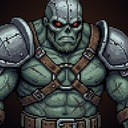
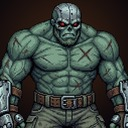
v66: Grog rebuilt on Kaito's body with his colors and outfit

diff --git a/game.js b/game.js
@@ -4,7 +4,7 @@
    ========================================================= */
 'use strict';
 (() => {
-const VERSION = 'v64';
+const VERSION = 'v66';
 
 let W = 384; const H = 216, GROUND = 190, GRAV = 0.34;
 let CX = 192; // centre horizontal
@@ -354,49 +354,37 @@ const HEAD_VESPER = [
   "..bBBBnnb.",
   "...eBBBBe.",
 ];
-const HEAD_GROG = [
-  "..aaaaa...",
-  ".aHLLHHa..",
-  "aHLHhHHHa.",
-  "aHHhHHLHHa",
-  "aHhHHHHHHa",
-  "ahHHHaaHaa",
-  "ahhHHkcakc",
-  "eShHSsslS.",
-  "eSbBSbkkb.",
-  ".ebBBBBBb.",
-  "..bbBBbb..",
+const HEAD_GROG = [   // tête de Kaito : crâne chauve blindé, yeux rouges, barbe
+  "..aaaaaa..",
+  ".aHHLLHHa.",
+  "aHHHLLHHHa",
+  "aHHHHHLHHa",
+  "ahHHHHHHHh",
+  "ahhSkcskc.",
+  "ahhSsssss.",
+  "ahSssssss.",
+  ".aSbBbbBs.",
+  "..SbBmmBs.",
+  "..ebBBBbe.",
 ];
-const GROG_TORSO = [
-  "oooooooooooooooooooooo",
-  "odmrlllllmdmllllllrlmo",
-  "odmrrllllmdmlllllrrlmo",
-  "odmmlrllgGGgglllrlmmmo",
-  "oddmxrrmGmdmgmmrrmmmmo",
-  ".oddmxrrgmdmgmrrmmmmo.",
-  ".odddddrgdddgrrdddddo.",
-  ".oddddddgggggrdddddmo.",
-  "..oldmdllrrrrldmmmmo..",
-  "..oddmdmmmrrmmdmmxmo..",
-  "..oldmdddrrrrddmmxmo..",
-  "...odddlrrdlrldmmmo...",
-  "...odddrrmdmmrrmmmo...",
-  "...odddrddddddrmmmo...",
-  "....orrllldllldrro....",
-  "....ordmmmdmmmdmro....",
-];
-const HEAD_GROG_BACK = [
-  "..aaaaa...",
-  ".aHLLHHa..",
-  "aHHLhHHHa.",
-  "aHhHHHLHHa",
-  "aHHHhHHHHa",
-  "ahHHHHHHha",
-  "ahhHHHHhSs",
-  "eShhhhhSss",
-  "eSsssssSs.",
-  ".eSsssSSs.",
-  "..eSSSSe..",
+
+const GROG_TORSO = [   // d'après le pixel art de Nizar
+  "....oooooo..oooooo....",
+  "..oommmmmdoodmmmmmoo..",
+  ".ommmmmmmmddmmmmmmmmo.",
+  "ommxmmmmmmddmmmmmmxmmo",
+  "omxmmmmmmmmdmmmmmmmxmo",
+  "ommmmmmmmmmdmmmmmmmmmo",
+  "omdmmmmxmmmdmmmxmxmmdo",
+  "omdmmmmmxmmdmmmmxmmmdo",
+  ".odddddddddddddddddddo",
+  ".omdmmmmmmmdmmmmmmdmo.",
+  "..odmmddddmdddddmmdo..",
+  "..odmmmmmmdmmmmxmmdo..",
+  "..odmmddddddddmmmmdo..",
+  "...odmmmmmdmmmxmmdo...",
+  "...odmmmmmdmmmmmmdo...",
+  "....oooooooooooooo....",
 ];
 // Têtes vues de dos 3/4 (nuque, oreille et bord de la joue à l'avant)
 const HEAD_KAITO_BACK = [
@@ -456,19 +444,18 @@ const DEFS = [
     glove: ['#05050a', '#14141c', '#26263a', '#3af0ff'],
     shoe:  ['#08080e', '#22222e', '#3af0ff', '#1ab8e0'],               // bottes noires, semelle cyan
     fb: ['#ffffff', '#c8f8ff', '#3af0ff', '#c83aff'] },
-  { name: 'GROG', style: 'tshirt', head: HEAD_GROG, headBack: HEAD_GROG_BACK, bare: true, bulk: true, size: 1.08, upper: 1.22, armor: true, harness: true, heavyBelt: true, cargo: true, shoes: true, kit: 'grog',
+  { name: 'GROG', style: 'tshirt', head: HEAD_GROG, headBack: HEAD_SORA_BACK, skinTop: true, bracer: true, scars: true, heavyBelt: true, shoes: true, kit: 'grog',
     speed: .72, tough: .82, power: 1.12,
-    skin:  ['#101a14', '#2c4637', '#5c8a6c', '#b4dcbc'],               // peau de mutant vert-de-gris
+    skin:  ['#1a2a22', '#3a5848', '#5a8070', '#86a898'],               // peau de mutant vert-de-gris
     eye:   '#ff2a1a',
-    hair:  { a: '#1e2228', h: '#4e5662', H: '#7c8696', L: '#c4ccd8' },   // crâne blindé de titane
-    top:   ['#101a14', '#2c4637', '#5c8a6c', '#b4dcbc'],               // torse nu musclé
-    legs:  ['#181c12', '#323a28', '#4c5640', '#66725a'],               // pantalon cargo kaki
-    belt:  ['#1a0e06', '#3a2412', '#5a3a1e', '#7a5434'],               // ceinture de cuir rivetée
-    strap: ['#2a1608', '#5a3418', '#7a4a26'],                          // harnais de cuir
-    bandP: ['#0c120e', '#16201a', '#243028', '#3a4a40'],               // barbe drue
-    armorP:['#1e2228', '#4e5662', '#7c8696', '#c4ccd8'],               // blindage titane
-    glove: ['#1e2228', '#4e5662', '#7c8696', '#c4ccd8'],
-    shoe:  ['#101216', '#3a3e46', '#5a606a', '#2a2e34'],               // rangers grises
+    hair:  { a: '#2a2e36', h: '#4e5662', H: '#7c8696', L: '#c4ccd8' },   // crâne blindé de titane
+    bandP: ['#0e1612', '#1a2620', '#2a3a30', '#3a4a40'],               // barbe
+    top:   ['#1a2a22', '#3a5848', '#5a8070', '#86a898'],               // torse nu
+    legs:  ['#1a1e14', '#343c2a', '#4c5640', '#66725a'],               // pantalon cargo kaki
+    belt:  ['#1a0e06', '#3a2412', '#5a3a1e', '#7a5434'],               // ceinture de cuir
+    armorP:['#2a2e36', '#5a6270', '#8c96a6', '#d4dce8'],               // brassards d'acier
+    glove: ['#2a2e36', '#5a6270', '#8c96a6', '#d4dce8'],               // gantelets
+    shoe:  ['#14161a', '#3a3e46', '#5a606a', '#2a2e34'],               // rangers grises
     fb: ['#ffffff', '#ffe0a0', '#ff8a2a', '#8a3a10'] },
 ];
 
@@ -717,18 +704,11 @@ function drawFighter(f, x = f.x, y = f.y) {
       const bc = mix(s0, e, .55), bn = add(bc, [ (e[1] - s0[1]) * .12 * fd, 0]);
       if (near) { sDisc(bn[0], bn[1] - 1, 3, S[3]); sR(bn[0] - 2, bn[1] + 1, 4, 1, S[1]); const sl = mix(s0, e, .8); sR(sl[0] - 1, sl[1], 3, 1, S[1]); }   // biceps éclairé
       const f0 = mix(e, hd, .12);
-      limbT(f0, hd, near ? 8 : 7.5, near ? 7.5 : 7, .3, AR);
+      limbT(f0, mix(f0, hd, .85), near ? 8 : 7.5, near ? 7.5 : 7, .3, AR);
       const ed = mix(f0, hd, .1); limbT(ed, mix(f0, hd, .75), 1.5, 1.5, 0, [AR[3], AR[3], AR[3], AR[3]]);   // arête lumineuse
       for (const t of [.22, .82]) { const q = mix(f0, hd, t); sR(q[0] - 4, q[1] - 1, 8, 2, SP[1]); sR(q[0] - 4, q[1] - 1, 8, 1, SP[2]); sR(q[0], q[1] - 1, 1, 1, AR[3]); }
-      const x0 = Math.round(hd[0]) - 3, y0 = Math.round(hd[1]) - 2;   // gantelet : phalanges d'acier, doigts verts
-      sR(x0, y0, 7, 6, AR[0]); sR(x0 + 1, y0, 5, 3, AR[2]); for (let k2 = 0; k2 < 3; k2++) sR(x0 + 1 + k2 * 2, y0, 1, 1, AR[3]);
-      sR(x0 + 1, y0 + 3, 5, 2, S[2]); sR(x0 + 1, y0 + 4, 5, 1, S[1]);
-      // épaulière en dôme, à plusieurs plaques
-      const pr = near ? 4.5 : 4, pc = [s0[0] + (s0[0] - sh[0]) * .5, s0[1] - 2.5];   // épaulière décalée vers l'extérieur
-      sDisc(pc[0], pc[1], pr, AR[0]); sDisc(pc[0], pc[1] - .5, pr - 1, AR[1]); sDisc(pc[0] - fd, pc[1] - 1.5, pr - 2.5, AR[2]);
-      sR(pc[0] - pr + 1, pc[1] + 2, pr * 2 - 1, 1, AR[0]); sR(pc[0] - pr + 2, pc[1] + 3, pr * 2 - 3, 1, AR[2]);   // bord inférieur
-      sR(pc[0] - fd * 2, pc[1] - 4, 2, 1, AR[3]); sR(pc[0], pc[1] - pr + 2, 1, pr, AR[1]);                     // reflet, jointure
-      sR(pc[0] + 2, pc[1] - 1, 1, 1, AR[3]); sR(pc[0] - 3, pc[1] - 1, 1, 1, AR[3]);                           // rivets
+      const x0 = Math.round(hd[0]) - 3, y0 = Math.round(hd[1]) - 2;   // grosse main verte
+      sR(x0, y0, 7, 5, S[0]); sR(x0 + 1, y0, 5, 4, S[2]); sR(x0 + 1, y0 + 3, 5, 1, S[1]);
       return;
     }
     limbT(s0, e, near ? 5 : 4.5, 4, near ? 1.2 : 1, S);
@@ -736,10 +716,16 @@ function drawFighter(f, x = f.x, y = f.y) {
     limbT(e, hd, near ? 4.5 : 4, near ? 3.5 : 3, 1, d.sleeves ? T : S);
     if (d.sleeves) limbT(s0, mix(s0, e, 1), near ? 5.5 : 5, near ? 5 : 4.5, .3, T);
     if (!tshirt) limbT(e, mix(e, hd, .25), 5.5, 5.5, 0, T);
+    if (d.bracer) {   // Grog : brassard d'acier sanglé de cuir sur l'avant-bras
+      const AR = near ? d.armorP : dim(d.armorP), b0 = mix(e, hd, .15), b1 = mix(e, hd, .85);
+      limbT(b0, b1, near ? 5.5 : 5, near ? 5 : 4.5, .2, AR);
+      const hl = mix(b0, b1, .2); sR(hl[0], hl[1] - 1, 1, 2, AR[3]);
+      const st = mix(b0, b1, .55); sR(st[0] - 2, st[1], 5, 1, near ? '#6e3c28' : '#3c1e0a');
+    }
     fist(hd, fd, Gl, S);
   };
   const leg = (k, ft, near) => {
-    const soft = pal => [pal[1], pal[1], pal[2], pal[3]];   // pas de bord sombre (pas de contour)
+    const soft = pal => d.outlineLegs ? pal : [pal[1], pal[1], pal[2], pal[3]];   // pas de bord sombre (pas de contour), sauf Grog
     const Lg = near ? soft(legs) : dim(legs), S = near ? soft(sk) : dim(sk);
     limbT(p, k, d.female ? 6.5 : d.bulk ? 11.5 : 7, d.female ? 4.2 : d.bulk ? 6 : 5, d.bulk ? 1.8 : .8, Lg);
     // la jambe s'arrête à la cheville : rien ne dépasse sous le pied / la semelle
@@ -842,6 +828,9 @@ function drawFighter(f, x = f.x, y = f.y) {
       for (let t = 0; t <= 1; t += .1) { const q = mix(add(sh, fwd, 4.5), add(at(.6), fwd, -1), t); sR(q[0], q[1], 1, 1, top[0]); }
     }
   }
+  if (d.scars && !backView) {   // cicatrices en X sur le torse
+    for (const [t, o] of [[.25, 3.5], [.55, -2]]) { const q = add(at(t), fwd, o); sR(q[0] - 1, q[1] - 1, 1, 1, '#7a3a2a'); sR(q[0] + 1, q[1] - 1, 1, 1, '#7a3a2a'); sR(q[0], q[1], 1, 1, '#7a3a2a'); sR(q[0] - 1, q[1] + 1, 1, 1, '#7a3a2a'); sR(q[0] + 1, q[1] + 1, 1, 1, '#7a3a2a'); }
+  }
   // Cou court et large
   limbT([h[0] - dir * .5, h[1] + 3], [n[0] + dir * .5, n[1] - .5], d.bulk ? 8 : 5, d.bulk ? 9 : 5, 0, sk);
   if (d.bulk && !backView) {   // trapèzes massifs
@@ -863,7 +852,7 @@ function drawFighter(f, x = f.x, y = f.y) {
     for (const [a0, a1] of [[add(sh, fwd, 7), add(wa, fwd, -6)], [add(sh, fwd, -6), add(wa, fwd, 6.5)]]) for (let t = 0; t <= 1; t += .06) { const q = mix(a0, a1, t); sR(q[0], q[1], 2, 1, SP[1]); }
   }
 
-  if (tshirt && !backView && !d.vneck && !d.bare) {
+  if (tshirt && !backView && !d.vneck && !d.bare && !d.skinTop) {
     // col rond
     const c1 = add(sh, fwd, -1.5), c2 = add(sh, fwd, 3.5), cb = add(at(.1), fwd, 1);
     sPoly([add(c1, fwd, -1), add(c2, fwd, 1), add(cb, [0, 1])], top[1]);
@@ -916,7 +905,7 @@ function drawFighter(f, x = f.x, y = f.y) {
 
   // Ceinture (le nœud est devant, donc caché en vue de dos)
   const bl = d.belt, by = add(p, [-ux, -uy], 1.5);
-  limbT(add(by, fwd, d.bulk ? -6 : -4.5), add(by, fwd, d.bulk ? 6.5 : 5), d.techBelt ? 2 : d.heavyBelt ? 4 : 3, d.techBelt ? 2 : d.heavyBelt ? 4 : 3, 0, bl);
+  limbT(add(by, fwd, d.bulk ? -6 : -4.5), add(by, fwd, d.bulk ? 6.5 : 5), d.techBelt ? 2 : d.heavyBelt ? 3.5 : 3, d.techBelt ? 2 : d.heavyBelt ? 3.5 : 3, 0, bl);
   if (d.heavyBelt) {   // grosse ceinture, boucle d'acier
     const bk2 = add(by, fwd, 3.5); const A = d.armorP;
     for (let t = -5; t <= 6; t += 2.2) { const q = add(by, fwd, t); sR(q[0], q[1] - 1, 1, 1, '#a88a5a'); }   // rivets
@@ -2229,7 +2218,7 @@ const ALT = [
   { top: ['#08080c', '#18181e', '#2e2e3a', '#4c4c5c'], belt: ['#2a0404', '#4a0808', '#6e1010', '#962222'] },   // Kaito : t-shirt noir, ceinture rouge foncé
   { top: ['#0c1a4a', '#18348c', '#2a5ad0', '#6a9cff'], legs: ['#06060a', '#14141c', '#26262e', '#8a8a9c'] }, // John : t-shirt bleu, pantalon presque noir brillant
   { top: ['#14040e', '#3a0a26', '#6a1446', '#c83a8a'], legs: ['#14040e', '#3a0a26', '#5a1240', '#a83a7a'], hair: { a: '#0a1a1a', h: '#0a5a5a', H: '#1ab8b8', L: '#8af4f4' } },   // Vesper : rose néon, cheveux turquoise
-  { skin: ['#2a1a16', '#5a3a30', '#7e5446', '#a8786a'], top: ['#2a1a16', '#5a3a30', '#7e5446', '#a8786a'], legs: ['#0e1016', '#1e2230', '#30364a', '#4a5268'], armorP: ['#2a1a06', '#7a5a1a', '#c8962a', '#ffe08a'], glove: ['#2a1a06', '#7a5a1a', '#c8962a', '#ffe08a'], hair: { a: '#2a1a06', h: '#7a5a1a', H: '#c8962a', L: '#ffe08a' }, eye: '#3af0ff' },   // Grog : peau rougeâtre, blindage bronze
+  { skin: ['#2a1a16', '#5a3a30', '#7e5446', '#a8786a'], top: ['#2a1a16', '#5a3a30', '#7e5446', '#a8786a'], legs: ['#0e1016', '#1e2230', '#30364a', '#4a5268'], armorP: ['#2a1a06', '#7a5a1a', '#c8962a', '#ffe08a'], glove: ['#2a1a06', '#7a5a1a', '#c8962a', '#ffe08a'], hair: { a: '#2a1a06', h: '#7a5a1a', H: '#c8962a', L: '#ffe08a' }, eye: '#3af0ff' },   // Grog : peau rougeâtre, métal bronze
 ];
 const fighterDef = (i, alt) => alt ? Object.assign({}, DEFS[i], ALT[i], { idx: i, alt: true }) : Object.assign(DEFS[i], { idx: i });
 function startMatch(p1, p2, stage) {
@@ -2619,8 +2608,8 @@ function drawSpark(s) {
 }
 
 // ---------- Portraits et grille de sélection (8 cases) ----------
-const PORTRAITS = ['p_kaito.jpg', 'p_john.jpg', 'p_vesper.jpg', 'p_grog.jpg'].map(src => { const im = new Image(); im.src = src + '?v=52'; return im; });
-const PORTRAITS_HURT = ['p_kaito_hurt.jpg', 'p_john_hurt.jpg', 'p_vesper_hurt.jpg', 'p_grog_hurt.jpg'].map(src => { const im = new Image(); im.src = src + '?v=52'; return im; });
+const PORTRAITS = ['p_kaito.jpg', 'p_john.jpg', 'p_vesper.jpg', 'p_grog.jpg'].map(src => { const im = new Image(); im.src = src + '?v=66'; return im; });
+const PORTRAITS_HURT = ['p_kaito_hurt.jpg', 'p_john_hurt.jpg', 'p_vesper_hurt.jpg', 'p_grog_hurt.jpg'].map(src => { const im = new Image(); im.src = src + '?v=66'; return im; });
 const PORTRAIT_FACE = [1, -1, 1, 1];   // sens du regard de chaque image : Kaito regarde à droite, John à gauche
 // Portraits provisoires dessinés à partir du sprite (en attendant de vraies illustrations)
 function makePortrait(i, hurt) {

diff --git a/index.html b/index.html
@@ -29,7 +29,7 @@
 <link rel="preconnect" href="https://fonts.googleapis.com">
 <link rel="preconnect" href="https://fonts.gstatic.com" crossorigin>
 <link href="https://fonts.googleapis.com/css2?family=Press+Start+2P&display=swap" rel="stylesheet">
-<link rel="stylesheet" href="style.css?v=64">
+<link rel="stylesheet" href="style.css?v=66">
 </head>
 <body>
 <div id="app">
@@ -64,6 +64,6 @@
 
 <script src="https://cdnjs.cloudflare.com/ajax/libs/peerjs/1.5.4/peerjs.min.js"></script>
 <script src="https://cdnjs.cloudflare.com/ajax/libs/qrcode-generator/1.4.4/qrcode.min.js"></script>
-<script src="game.js?v=64"></script>
+<script src="game.js?v=66"></script>
 </body>
 </html>
